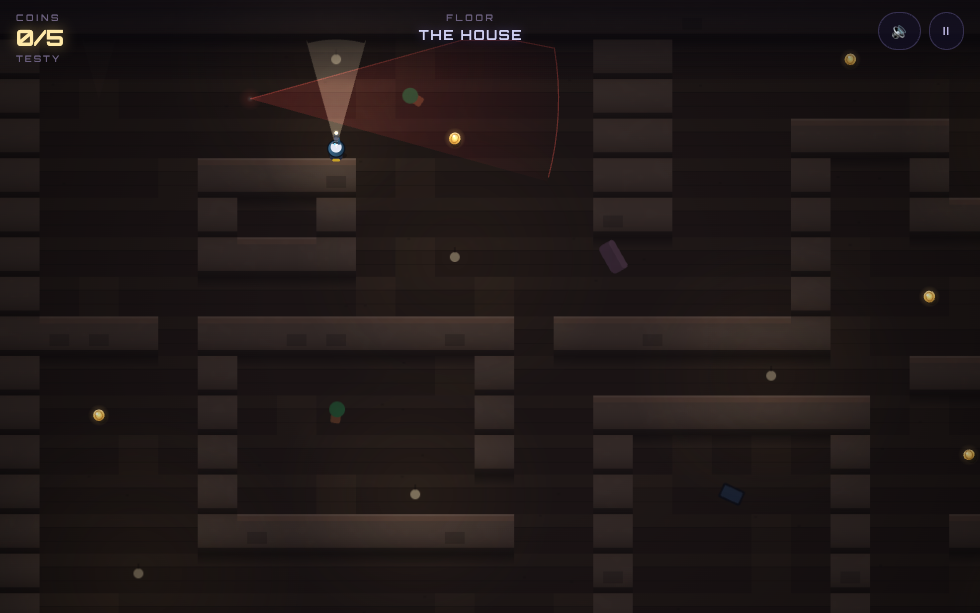
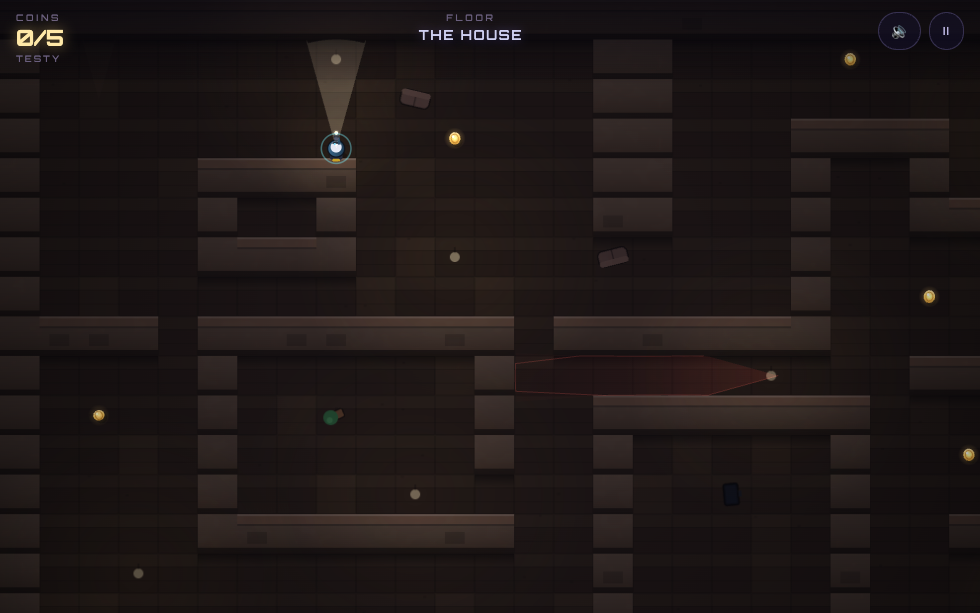
Soften flashlight wedge (lower hole alpha, gentler warm wash)

diff --git a/index.html b/index.html
@@ -1049,7 +1049,7 @@ function render() {
   /* flashlight hole */
   if (flHits.length) {
     const gr = darkCtx.createRadialGradient(player.x, player.y, 10, player.x, player.y, T.FL_RANGE);
-    gr.addColorStop(0, 'rgba(0,0,0,0.95)'); gr.addColorStop(0.55, 'rgba(0,0,0,0.55)'); gr.addColorStop(1, 'rgba(0,0,0,0)');
+    gr.addColorStop(0, 'rgba(0,0,0,0.82)'); gr.addColorStop(0.55, 'rgba(0,0,0,0.45)'); gr.addColorStop(1, 'rgba(0,0,0,0)');
     fanPath(darkCtx, player.x, player.y, flHits, T.FL_RAYS, T.FL_HALF, T.FL_RANGE, player.aim);
     darkCtx.fillStyle = gr; darkCtx.fill();
     /* bubble */
@@ -1141,7 +1141,7 @@ function render() {
   ctx.globalCompositeOperation = 'lighter';
   if (flHits.length) {
     const gr = ctx.createRadialGradient(player.x, player.y, 8, player.x, player.y, T.FL_RANGE);
-    gr.addColorStop(0, 'rgba(255,236,190,0.16)'); gr.addColorStop(1, 'rgba(255,236,190,0)');
+    gr.addColorStop(0, 'rgba(255,236,190,0.11)'); gr.addColorStop(1, 'rgba(255,236,190,0)');
     fanPath(ctx, player.x, player.y, flHits, T.FL_RAYS, T.FL_HALF, T.FL_RANGE, player.aim);
     ctx.fillStyle = gr; ctx.fill();
   }
